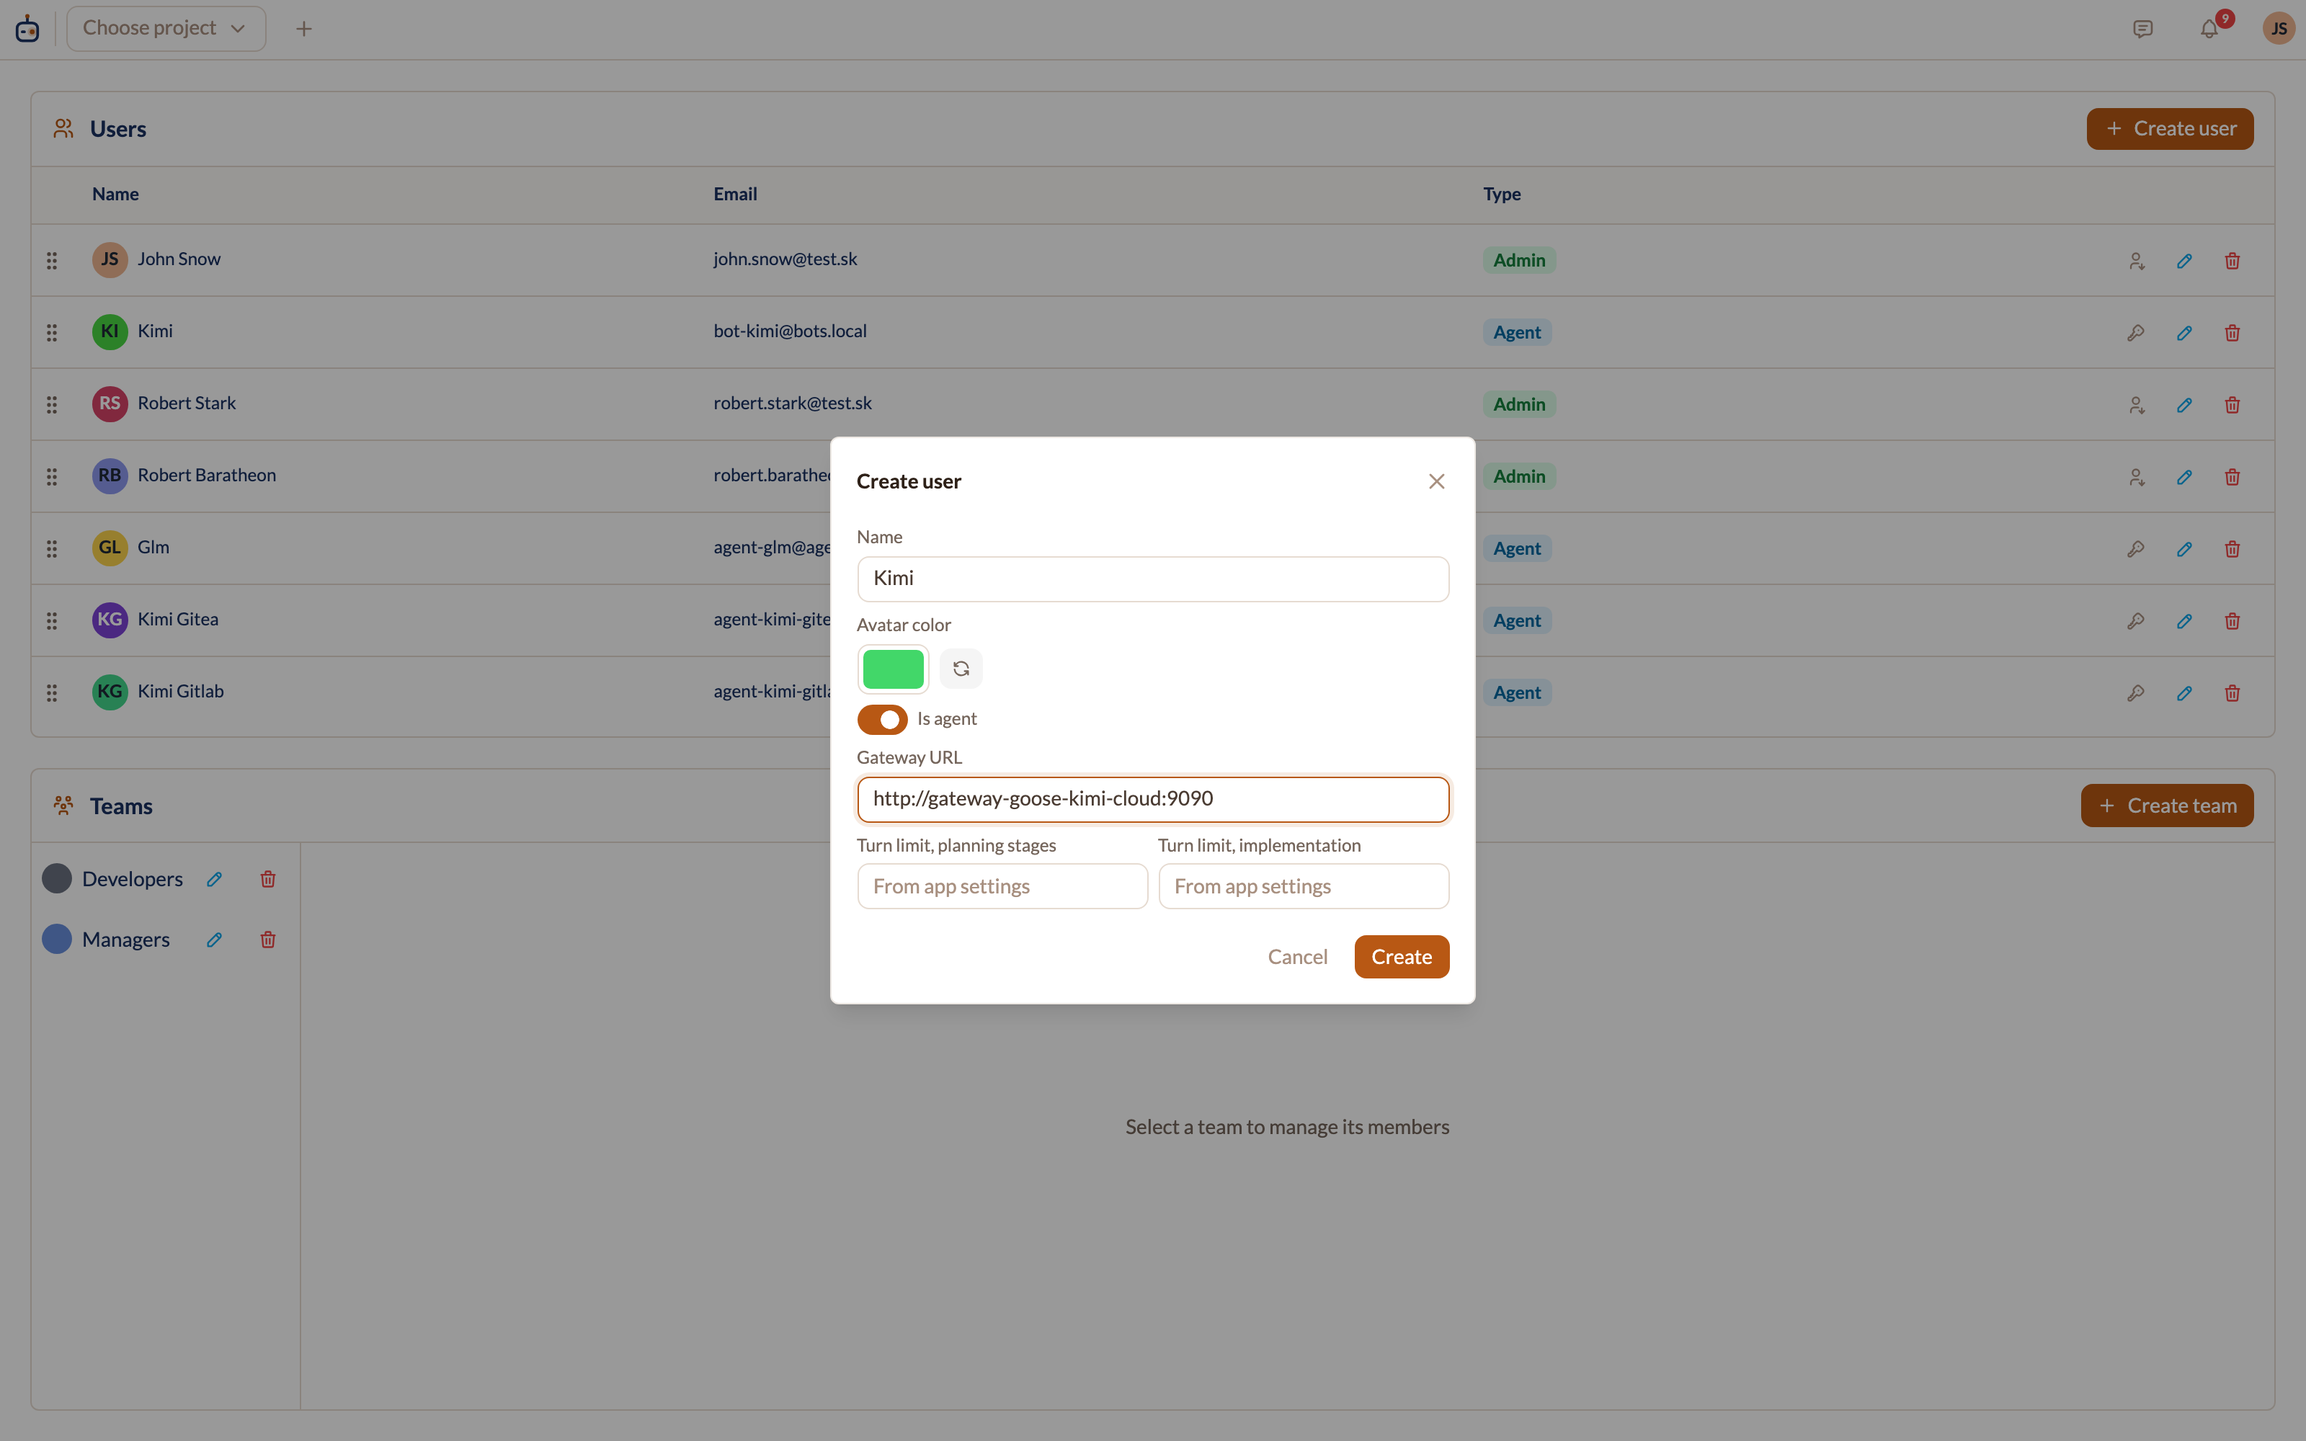
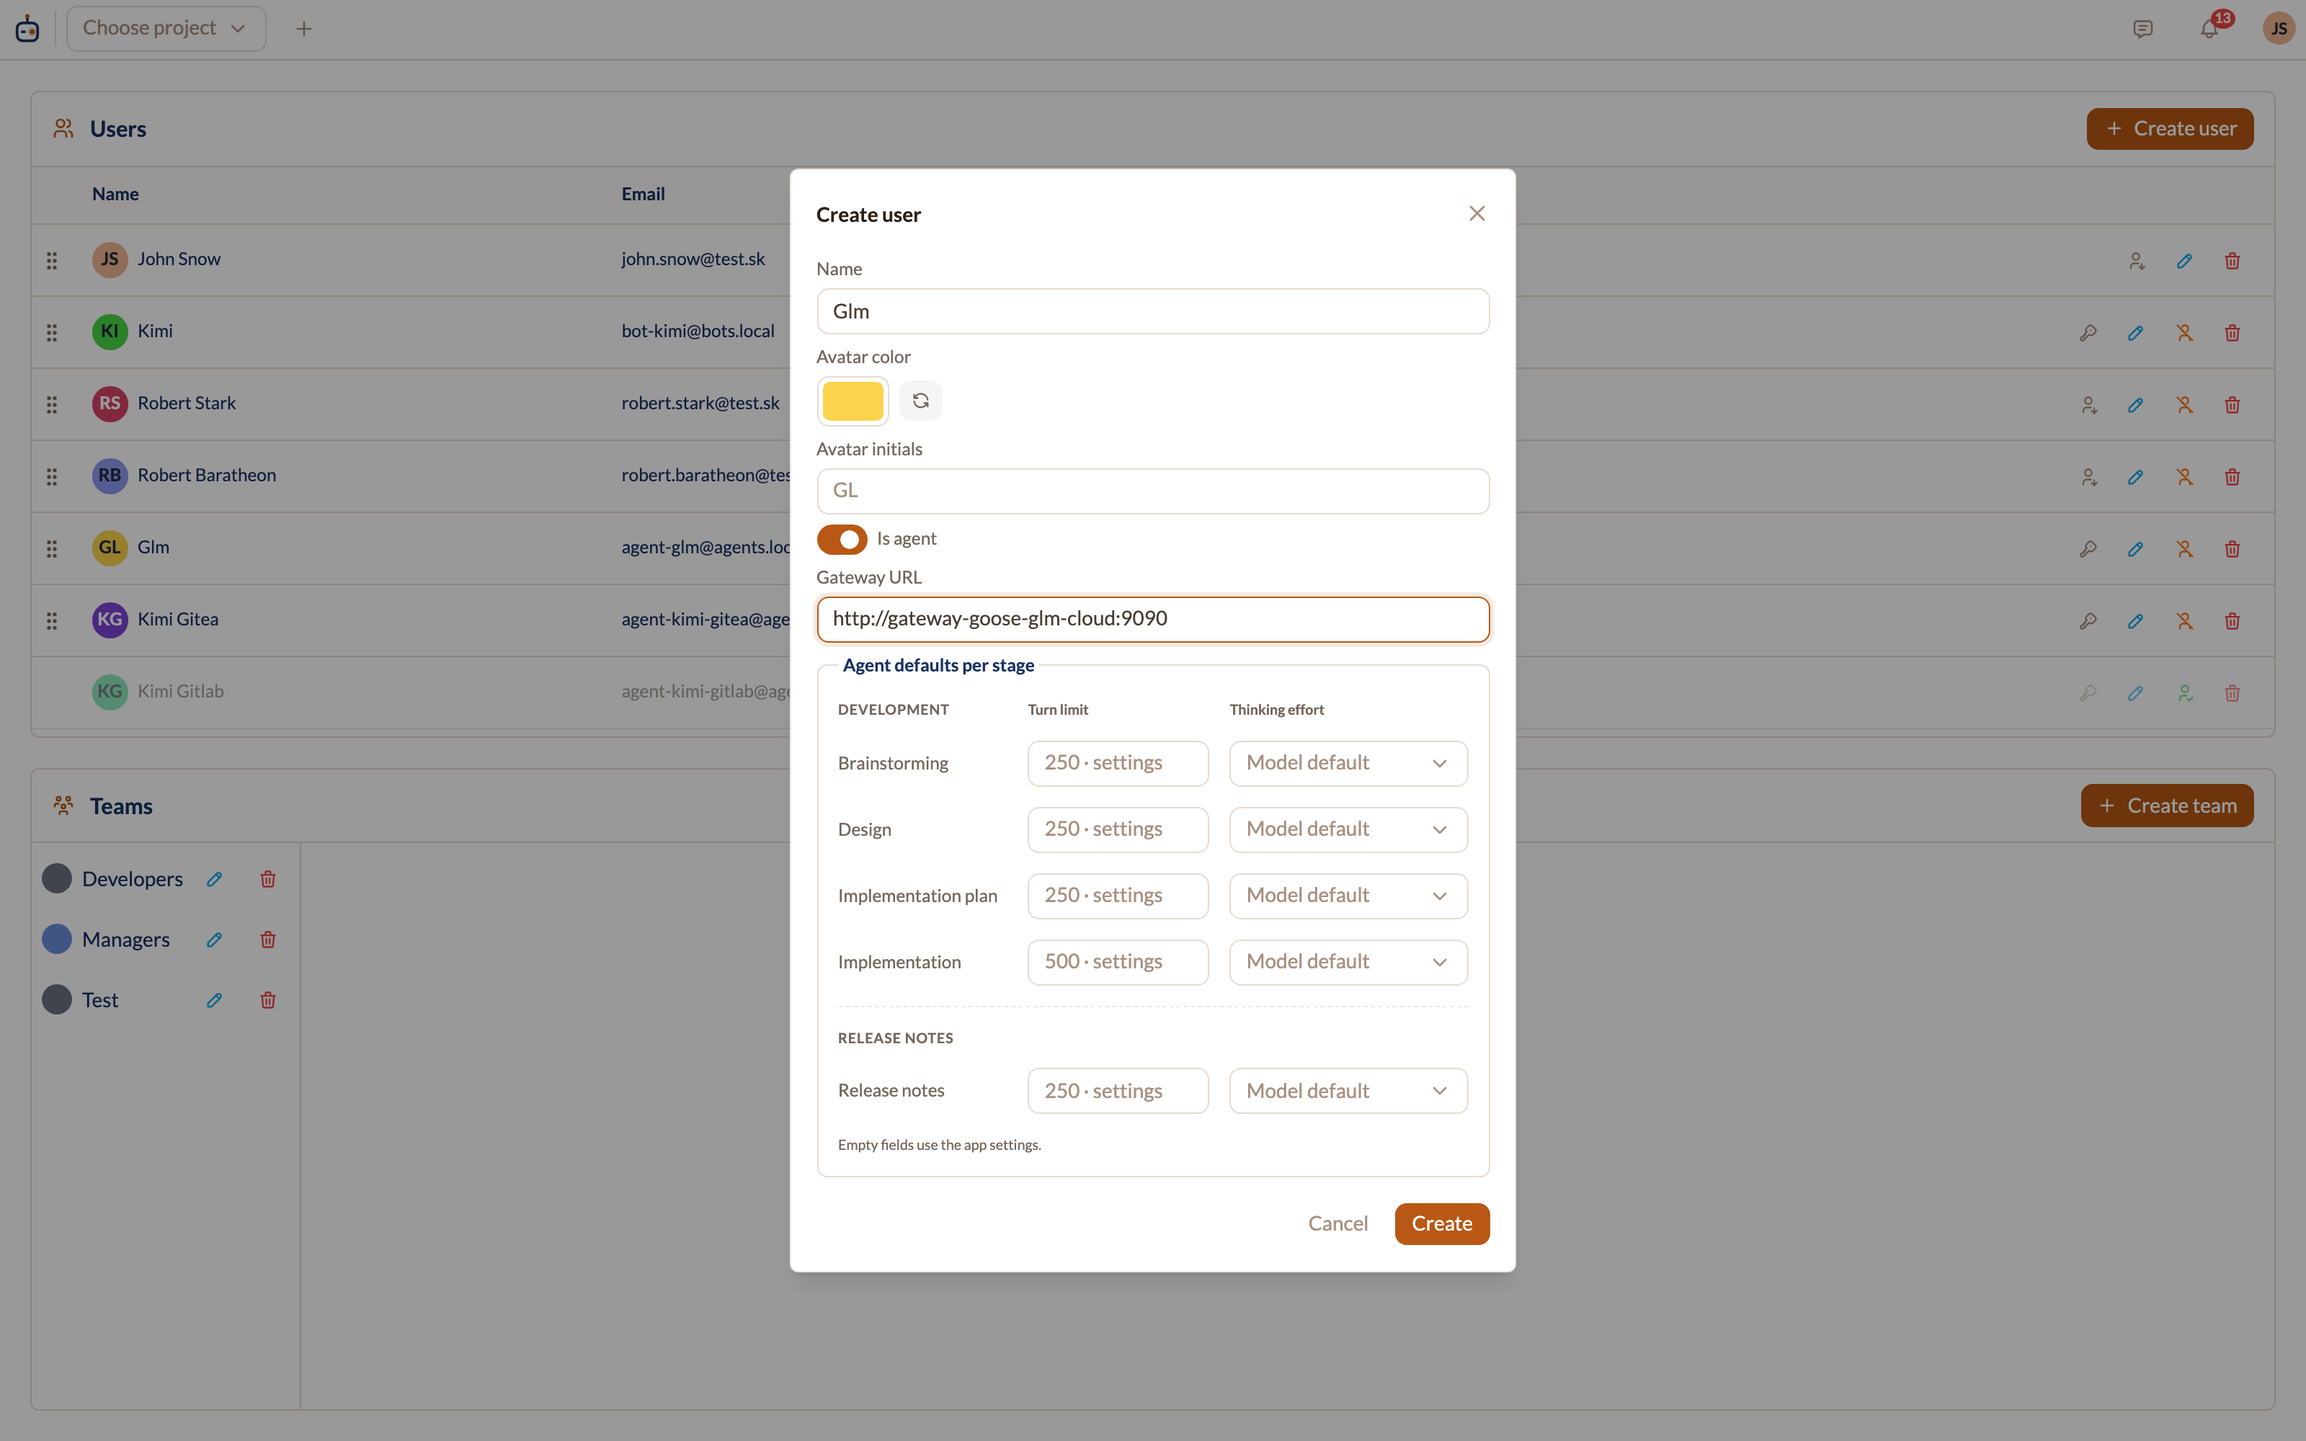
Document the thinking effort and retake the agent screenshots

Changed region(s): [[0.2812, 0.093, 0.6875, 0.899], [0.0312, 0.465, 0.0938, 0.496], [0.0, 0.682, 0.0312, 0.713]]

diff --git a/site/content/agentic-workflow/gateway.md b/site/content/agentic-workflow/gateway.md
@@ -62,6 +62,26 @@ on the default instead, and its timeline says so.
 The gateway refuses to start when `MODELS` is empty, an entry has no provider,
 or `MODEL_DEFAULT` is not in the list.
 
+### Thinking effort
+
+The tracker sends the thinking effort of a stage (`low`, `medium`, `high` or
+`max`) in `stage_execute`, see [Thinking effort](./agents.md#thinking-effort).
+Goose gets it as `GOOSE_THINKING_EFFORT` and maps it to what the provider
+understands; Claude Code gets it as `--effort`. When the tracker sends none, the
+gateway sets nothing and the model uses its own default. Any other value fails
+the stage with `effort_not_allowed` before the agent starts.
+
+At startup the gateway tells the tracker which of its `MODELS` think. Claude
+Code reports all of them as thinking. Goose asks Ollama (`OLLAMA_HOST`,
+`http://localhost:11434` when unset) which of its `ollama/*` models have no
+thinking and reports them, so the tracker does not offer an effort for them.
+Other goose providers are left to the models.dev list the tracker ships. This is
+the only call besides the model itself, and it stays on your own Ollama. It does
+not delay the gateway's start. If Ollama is not up yet, the gateway keeps asking
+for a few minutes. A model Ollama never answers for keeps what the tracker knew
+about it from the previous start; a model it has never answered for is unknown,
+and the tracker still offers the effort for it.
+
 ## Connection options
 
 Each `MODELS` entry starts with its provider. Set the variables of every
@@ -220,16 +240,16 @@ If the certificate comes from an internal CA, point the tracker at it with
 
 <!-- stack-table -->
 
-| Var                         | Default          | Notes                                                                                                                                                                                          |
-| --------------------------- | ---------------- | ---------------------------------------------------------------------------------------------------------------------------------------------------------------------------------------------- |
-| `MODEL_DEFAULT`             | first of `MODELS` | The model a stage runs when the tracker names none. Must be listed in `MODELS`.                                                                                                                |
-| `MAX_TURNS_LIMIT`           | _no limit_       | Highest turn limit a stage may run with. The gateway reports it to the tracker, which caps every limit it sends at this value; a stage that still asks for more fails with `max_turns_over_limit` and the agent never starts. The limits themselves are set in the tracker, see [Turn limits](./agents.md#turn-limits). |
-| `GOOSE_DEFAULT_EXTENSION_TIMEOUT` | `1800`            | Seconds one shell command of the agent may run before Goose stops it. |
-| `GOOSE_STOP_HOOK_BLOCK_CAP`       | `3`               | How many times an agent that tries to stop without submitting its result is sent back to submit it. Each reminder uses a turn. |
-| `LISTEN_PORT`               | `9090`           | Webhook receiver (`POST /event`) and healthcheck (`GET /health`).                                                                                                                              |
-| `MAX_OUTPUT_LINE_MB`        | `4`              | Longest single line of agent output the gateway reads, in MB. A longer line is skipped and logged as a warning, and the stage keeps running.                                                   |
-| `LOG_LEVEL`                 | `info`           | `debug` \| `info` \| `warn` \| `error` (JSON output).                                                                                                                                          |
-| `WORKSPACE_BASE`            | `/worktrees`     | Root for the clones and their per-run worktrees; must match the workspace volume mount.                                                                                                        |
+| Var                               | Default           | Notes                                                                                                                                                                                                                                                                                                                   |
+| --------------------------------- | ----------------- | ----------------------------------------------------------------------------------------------------------------------------------------------------------------------------------------------------------------------------------------------------------------------------------------------------------------------- |
+| `MODEL_DEFAULT`                   | first of `MODELS` | The model a stage runs when the tracker names none. Must be listed in `MODELS`.                                                                                                                                                                                                                                         |
+| `MAX_TURNS_LIMIT`                 | _no limit_        | Highest turn limit a stage may run with. The gateway reports it to the tracker, which caps every limit it sends at this value; a stage that still asks for more fails with `max_turns_over_limit` and the agent never starts. The limits themselves are set in the tracker, see [Turn limits](./agents.md#turn-limits). |
+| `GOOSE_DEFAULT_EXTENSION_TIMEOUT` | `1800`            | Seconds one shell command of the agent may run before Goose stops it.                                                                                                                                                                                                                                                   |
+| `GOOSE_STOP_HOOK_BLOCK_CAP`       | `3`               | How many times an agent that tries to stop without submitting its result is sent back to submit it. Each reminder uses a turn.                                                                                                                                                                                          |
+| `LISTEN_PORT`                     | `9090`            | Webhook receiver (`POST /event`) and healthcheck (`GET /health`).                                                                                                                                                                                                                                                       |
+| `MAX_OUTPUT_LINE_MB`              | `4`               | Longest single line of agent output the gateway reads, in MB. A longer line is skipped and logged as a warning, and the stage keeps running.                                                                                                                                                                            |
+| `LOG_LEVEL`                       | `info`            | `debug` \| `info` \| `warn` \| `error` (JSON output).                                                                                                                                                                                                                                                                   |
+| `WORKSPACE_BASE`                  | `/worktrees`      | Root for the clones and their per-run worktrees; must match the workspace volume mount.                                                                                                                                                                                                                                 |
 
 ## Authentication
 

diff --git a/site/content/agentic-workflow/agents.md b/site/content/agentic-workflow/agents.md
@@ -98,7 +98,7 @@ gateway's default picked. Pick another one for the whole run, for example a
 cheap local model for a trivial task and a strong one for an architecture change.
 
 The dialog lists the stages in the order they run. A closed stage shows a summary
-of its skills, model and turn limit; open it to change them. Each stage can
+of its skills, model, thinking effort and turn limit; open it to change them. Each stage can
 override the run's model, so the design can run on a stronger model than the
 brainstorming. A stage without its own choice runs the run's model, and a run
 without a choice runs the gateway's default.
@@ -128,15 +128,52 @@ reports completion; press **Continue** to retry it with a fresh budget. The
 limit comes from the first of these that is set:
 
 1. the stage's own limit, set on the stage in the dialog or later on the run card;
-2. the agent's limit for planning stages or for implementation, set when you
-   create the agent or later in its edit dialog in **Admin → Users**;
-3. the app settings in **Admin → Settings**, 250 for planning stages and 500 for
-   implementation by default.
+2. the agent's limit for that stage, set when you create the agent or later in
+   its edit dialog in **Admin → Users**;
+3. the app settings in **Admin → Settings**, 500 for implementation and 250 for
+   every other stage by default.
+
+Both places list every stage an agent runs: brainstorming, design,
+implementation plan and implementation of a development run, and release notes.
+An empty field on the agent shows in grey what it takes from the app settings.
 
 A weaker model often needs a higher limit to finish. The gateway can cap the
 limit with `MAX_TURNS_LIMIT`. It reports the cap to the tracker together with
 its models, and a stage never runs with more turns than the cap, whichever
 setting asked for them.
+
+### Thinking effort
+
+The thinking effort tells the model how much to think before it answers:
+**Low**, **Medium**, **High** or **Max**. More effort usually gives a better
+brainstorm, design and plan, but costs more tokens and time. Implementation
+mostly follows the approved plan, so it often does well with less.
+
+The effort comes from the first of these that is set:
+
+1. the stage's own effort, picked on the stage in the dialog or later on the
+   run card;
+2. the effort for the whole run, picked under **Thinking effort for all stages**
+   when you assign the agent;
+3. the agent's effort for that stage, set when you create the agent or later in
+   its edit dialog in **Admin → Users**;
+4. the app settings for that stage in **Admin → Settings**.
+
+Nothing is set out of the box, so a stage runs with the model's own default
+until you pick an effort somewhere. Under the levels the stage says what it gets
+when you pick none, for example *Default: High (from agent Kimi)* or
+*Default: from the model*. For the whole run, hover the **?** next to
+**Thinking effort for all stages** to see what each stage of the run gets.
+Stages with the same default share one line. The inherited level has an outline. Click a level to
+override it, and click it again or **Use default** to go back.
+
+Not every model thinks. Rurdesk ships a list of models known to have no
+thinking, taken from the [models.dev](https://models.dev) catalog, and a gateway
+that runs local Ollama models reports which of them do not think. For those
+models the effort choice is hidden. A model on neither list is offered the
+choice. When an effort set for the run or the agent reaches a model without
+thinking, the stage runs without one and its card shows no effort. The effort of
+the whole run is shown next to its model in the run block.
 
 ### Taking the task away from the agent
 
@@ -147,7 +184,7 @@ The run no longer counts in the agent's queue.
 
 To continue, press **Assign back** on the card, pick the agent in the assignee
 field, or assign it through its dialog. The dialog opens with the paused run's
-own skills, workflow, models and turn limits, and applies them to the stages
+own skills, workflow, models, thinking efforts and turn limits, and applies them to the stages
 that have not started yet. If the workflow switch is already
 locked, the dialog says so and nothing changes. Assigning a different agent
 hands the run over to it.
@@ -180,7 +217,7 @@ duration, tool calls and cost in USD, plus a breakdown of the token use into
 input, output, cache read and cache write. Below it, every stage has its own
 card. The header of the card shows the stage's status, when it finished and
 how long it took. Open a stage that ran to see its attempts, tool calls,
-tokens and cost, the model, skills and turn limit it ran with, and which
+tokens and cost, the model, skills, thinking effort and turn limit it ran with, and which
 agent executed it after a hand-off. The
 stage waiting for your review and the next stage to start are open from the
 start. A skipped stage is struck through and has nothing to open.
@@ -289,7 +326,7 @@ had and the row says the rest was dropped.
 
 Both settings apply to the next batch of thinking; no restart is needed.
 
-![Admin application settings, with the thinking retention toggle and the per-stage KB limit](../../site/assets/img/admin-settings.png)
+![Admin application settings, with the thinking retention toggle, the per-stage KB limit and the agent defaults per stage](../../site/assets/img/admin-settings.png)
 
 > Thinking text can quote source code and tool output, exactly like a design or
 > plan comment. It is visible to every member of the project, so treat it with

diff --git a/site/content/using-the-tracker/releases.md b/site/content/using-the-tracker/releases.md
@@ -79,8 +79,8 @@ Delete it and start a new one from another tag.
 ## Letting an agent write the release notes
 
 **Write with an agent** on the release notes step opens a form: pick the agent
-and, if you want, change the skills, the model and the turn limit of the
-*Release notes* stage. The model starts at the default model of the agent's
+and, if you want, change the skills, the model, the thinking effort and the turn
+limit of the *Release notes* stage. The model starts at the default model of the agent's
 gateway. **Start writing** lets the agent write. No task is created and nothing
 is posted to any task. The agent gets exactly the tasks of the release: the
 closed ones and, when you chose to release the open tasks too, those as well.
